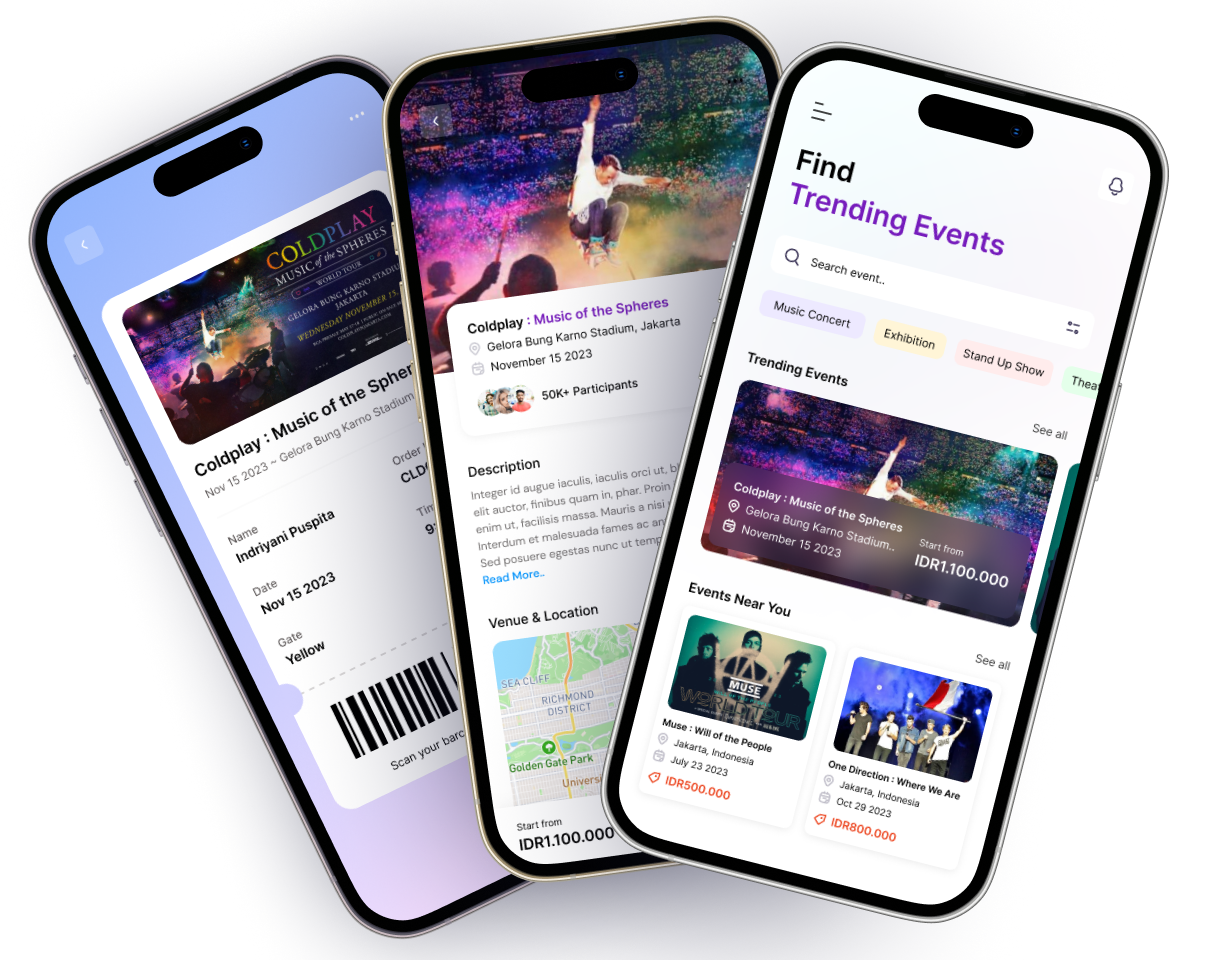
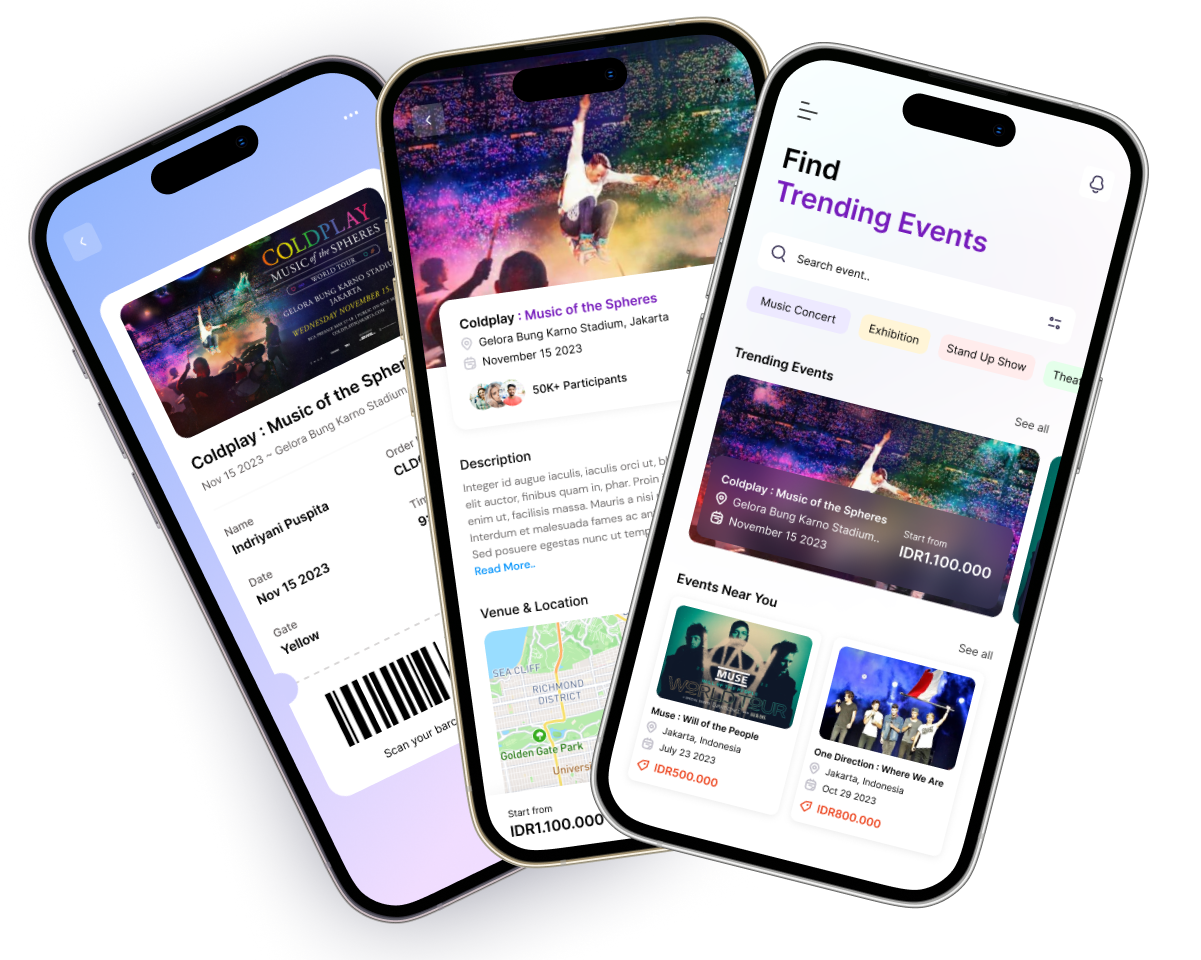
feat: :sparkles: Cambios generales

diff --git a/css/styleEvents.css b/css/styleEvents.css
@@ -4,47 +4,31 @@
 * {
   padding: 0;
   margin: 0;
-  
   box-sizing: border-box;
-  
   font-family: Poppins, sans-serif;
 }
 
 body {
   background-color: #fafafa;
-  
   min-height: 100vh;
-  
   display: flex;
-  
   align-items: center;
   justify-content: center;
-}
-
-.dropdown-area {
-  display: flex;
-  flex-direction: column;
 }
 
 .notify-button {
   background-color: #ffffff;
-  
   width: 3.5rem;
   height: 3.5rem;
-  
   border-radius: 3.5rem;
-  
   display: flex;
-  
   align-items: center;
+  flex-direction: column; 
   justify-content: center;
-  
   align-self: flex-end;
-  
   cursor: pointer;
-  
+  margin-top: -100%;
   transition: all 0.2s ease;
-  
   box-shadow:
   0 1.1px 2.2px rgba(0, 0, 0, 0.014),
   0 2.7px 5.3px rgba(0, 0, 0, 0.02),
@@ -65,14 +49,9 @@ body {
 
 .notify-area {
   background-color: #ffffff;
-  
   border-radius: 0.3rem;
-  
   display: flex;
   flex-direction: column;
-  
-  margin-top: 0.5rem;
-  
   box-shadow:
   0 1.1px 2.2px rgba(0, 0, 0, 0.014),
   0 2.7px 5.3px rgba(0, 0, 0, 0.02),
@@ -80,16 +59,13 @@ body {
   0 8.9px 17.9px rgba(0, 0, 0, 0.03),
   0 16.7px 33.4px rgba(0, 0, 0, 0.036),
   0 40px 80px rgba(0, 0, 0, 0.05);
-  
   visibility: hidden;
-  
   transition: visibility 0.2s ease-in;
 }
 
 .notify-area li {
   list-style: none;
   padding: 1rem 2rem;
-  
   transition: background-color 0.1s ease;
 }
 
@@ -107,12 +83,13 @@ body {
 
 .menu-icon{
     background-color: #ffffff;
-  width: 3.5rem;
-  height: 3.5rem;
-  border-radius: 3.5rem;
+  width: 3rem;
+  height: 3rem;
+  border-radius: 3rem;
   display: flex;
   align-items: flex-start;
   cursor: pointer;
+  margin-top: -10%;
 }
 
 .carousel {
@@ -120,14 +97,72 @@ body {
     flex-direction: row;
     height: 310px;
     overflow-x: scroll;
-    
-    .carousel-item {
+
+    & > .carousel-item {
       flex: 1;
       flex-grow: 1;
       min-width: 90%;
       margin: 0 5px;
     }
   }
+
+.carousel-item-all::-webkit-scrollbar {
+  display: none; 
+}
+.carousel-item-all > div {
+  flex: 0 0 auto; 
+}
+
+.carousel-item-all {
+  display: flex;
+  flex-direction: row;
+  overflow-x: scroll;
+}
+
+.carousel-item-button1 a{
+  background: #EDE9FF;
+  color: black;
+  padding: 10px 20px;
+  border: none;
+  border-radius: 20px;
+  border: none;
+  font-size: 0.9em;
+  cursor: pointer;
+  text-decoration: none;
+}
+
+.carousel-item-button2 a{
+  background: #FFF5D7;
+  color: black;
+  padding: 10px 20px;
+  border: none;
+  border-radius: 20px;
+  font-size: 0.9em;
+  cursor: pointer;
+  text-decoration: none;
+}
+
+.carousel-item-button3 a{
+  background: #FFECEC;
+  color: black;
+  padding: 10px 20px;
+  border: none;
+  border-radius: 20px;
+  font-size: 0.9em;
+  cursor: pointer;
+  text-decoration: none;
+}
+
+.carousel-item-button4 a{
+  background: #E4FFEA;
+  color: black;
+  padding: 10px 20px;
+  border: none;
+  border-radius: 20px;
+  font-size: 0.9em;
+  cursor: pointer;
+  text-decoration: none;
+}
 
 .app-container {
     width: 90%;
@@ -141,19 +176,19 @@ body {
 }
 
 .header .title h1 {
-    font-size: 1.5em;
-    margin-bottom: -5px;
+    font-size: 3em;
+    line-height: 1;
+    margin: 0;
+    margin-top: 25%;
 }
 
 .header .title h2 {
-    font-size: 1.2em;
-    color: purple;
+    font-size: 2em;
+    color: #9333ea;
+    line-height: 1.2; 
+    margin: 0;
 }
 
-.title{
-    display: flex;
-    
-}
 
 .search-bar {
     display: flex;
@@ -174,19 +209,12 @@ body {
 
 .categories {
     display: flex;
-    gap: 10px;
+    gap: 15px;
     flex-wrap: wrap;
     margin-bottom: 20px;
+
 }
 
-.categories button {
-    padding: 10px 15px;
-    background: #f3f3f3;
-    border: none;
-    border-radius: 20px;
-    color: #555;
-    font-size: 0.9em;
-}
 
 .section-header {
     display: flex;

diff --git a/pages/events.html b/pages/events.html
@@ -5,7 +5,6 @@
     <meta name="viewport" content="width=device-width, initial-scale=1.0">
     <title>Eventos</title>
     <link rel="stylesheet" href="../css/styleEvents.css">
-    <script type="module" src="../js/notification.js"></script>
 </head>
 <body>
     <div class="app-container">
@@ -19,11 +18,6 @@
                 <div class="notify-button">
                     <svg xmlns="http://www.w3.org/2000/svg" width="24" height="24" viewBox="0 0 24 24" fill="none" stroke="#757575" stroke-width="2" stroke-linecap="round" stroke-linejoin="round" class="feather feather-bell"><path d="M18 8A6 6 0 0 0 6 8c0 7-3 9-3 9h18s-3-2-3-9"></path><path d="M13.73 21a2 2 0 0 1-3.46 0"></path></svg>
                 </div>
-                <ul class="notify-area">
-                    <li>Example</li>
-                    <li>Other Example</li>
-                    <li>Click Outside to Close</li>
-                </ul>
             </div>
         </header>
         <div class="search-bar">
@@ -31,10 +25,20 @@
             <div class="filter-icon">⚙</div>
         </div>
         <div class="categories">
-            <button>Music Concert</button>
-            <button>Exhibition</button>
-            <button>Stand Up Show</button>
-            <button>Theater</button>
+            <div class="carousel-item-all">
+                <div class="carousel-item-button1"> 
+                    <a href="#">Music Concert</a>
+                </div>
+                <div class="carousel-item-button2">
+                    <a href="#">Exhibition</a>
+                </div>
+                <div class="carousel-item-button3">
+                    <a href="#">Stand Up Show</a>
+                </div>
+                <div class="carousel-item-button4">
+                    <a href="#">Theater</a>
+                </div>
+              </div>
         </div>
         <section class="trending-events">
             <div class="section-header">
@@ -43,6 +47,7 @@
             </div>
             <div class="carousel">
                 <div class="carousel-item">
+                    <a href="datailsEvent.html">
                     <div class="event-card large-card">
                         <img src="../images/Frame 34616.png" alt="Trending Event">
                         <div class="event-info">
@@ -51,9 +56,11 @@
                             <p>November 15 2023</p>
                             <span>Start from IDR1,100,000</span>
                         </div>
+                    </a>
                     </div>
                 </div>
                 <div class="carousel-item">
+                    <a href="datailsEvent.html">
                     <div class="event-card large-card">
                         <img src="../images/Frame 34616.png" alt="Trending Event">
                         <div class="event-info">
@@ -62,12 +69,13 @@
                             <p>November 15 2023</p>
                             <span>Start from IDR1,100,000</span>
                         </div>
-                </div>
-                <div class="carousel-item"></div>
-                <div class="carousel-item"></div>
-                <div class="carousel-item"></div>
-              </div>
-            
+                    </a>
+                    </div>
+                    <div class="carousel-item"></div>
+                    <div class="carousel-item"></div>
+                    <div class="carousel-item"></div>
+                    </div>
+
         </section>
         <section class="nearby-events">
             <div class="section-header">

diff --git a/css/style.css b/css/style.css
@@ -8,7 +8,7 @@ body {
     font-family: Arial, sans-serif;
     display: flex;
     justify-content: center;
-    background: linear-gradient(90deg, #efd5ff 0%, #515ada 100%);
+    background: linear-gradient(100deg, #DEFDFF, #FFB9EB);
 }
 
 .container {
@@ -93,7 +93,7 @@ body {
     flex-direction: column;
     position: absolute;
     margin-top: 185%;
-    left: 35%;
+    left: 33%;
 }
 
 .link-info{
@@ -109,6 +109,7 @@ body {
     margin-top: 10px;
     transition: background-color 0.6s;
 }
+
 .link-info:hover{
     color: #8a2be2;
     background-color: #ffffff;
@@ -128,20 +129,21 @@ body {
     box-shadow: 0 4px 10px rgba(0, 0, 0, 0.2);
 }
 
-@media (min-width: 1260px) {
+.event-item { animation: event-item  infinite 2s ease-in-out }
+@keyframes event-item  {
+    50% { transform: translateY(30px) }
+}
+
+@media (min-width: 1024px) {
+    body {
+        margin: 0;
+        padding: 0;
+        box-sizing: border-box;
+    }
+}
+
+@media (min-width: 768px) {
     .container{
         max-width: 1260px;
-    }
-}
-
-@media (min-width: 960px) {
-    .container{
-        max-width: 960px;
-    }
-}
-
-@media (min-width: 720px) {
-    .container{
-        max-width: 720px;
     }
 }

diff --git a/index.html b/index.html
@@ -3,8 +3,9 @@
 <head>
     <meta charset="UTF-8">
     <meta name="viewport" content="width=device-width, initial-scale=1.0">
-    <title>Evento - App de Eventos</title>
     <link rel="stylesheet" href="css/style.css">
+    <script type="module" src="js/scrip.js"></script>
+    <title>Evento</title>
 </head>
 <body>
     <div class="container">
